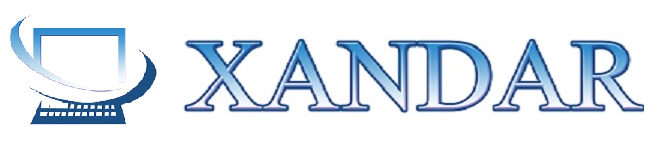
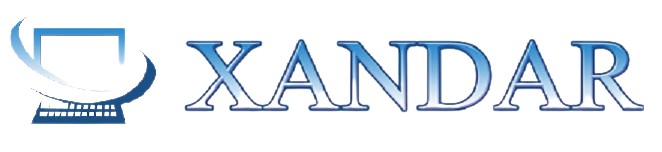
cambios

diff --git a/assets/side/css/style.css b/assets/side/css/style.css
@@ -654,7 +654,7 @@ a[href*='tel'], a[href*='mailto'] {
 .main-decorated-box:before {
 	content: '';
 	position: absolute;
-	background: url("../../img/xandar.jpeg") no-repeat center center;
+	background: url("../../img/xandar.png") no-repeat center center;
 	background-size: contain;
 	width: 100%;
 	height: 100%;

diff --git a/application/views/page.php b/application/views/page.php
@@ -68,20 +68,20 @@
                                 <li>
                                     <div class="unit unit-spacing-xs align-items-center">
                                         <div class="unit-left"><span class="icon text-middle fa-phone"></span></div>
-                                        <div class="unit-body"><a href="tel:#">+1 800 123 45 67</a></div>
+                                        <div class="unit-body"><a href="tel:#">+57 302 436 06 57</a></div>
                                     </div>
                                 </li>
                                 <li>
                                     <div class="unit unit-spacing-xs align-items-center">
                                         <div class="unit-left"><span class="icon text-middle fa-envelope"></span></div>
-                                        <div class="unit-body"><a href="mailto:#">info@demolink.org</a></div>
+                                        <div class="unit-body"><a href="mailto:#">soporte@xandar.com</a></div>
                                     </div>
                                 </li>
                                 <li>
                                     <div class="unit unit-spacing-xs align-items-center">
                                         <div class="unit-left"><span class="icon text-middle fa-map-marker"></span>
                                         </div>
-                                        <div class="unit-body"><a href="#">2164 Wall St. New York, NY 10122</a></div>
+                                        <div class="unit-body"><a href="#">Calle 27b #10- 30 S/larga - Atlantico</a></div>
                                     </div>
                                 </li>
                             </ul>
@@ -107,7 +107,7 @@
                                 <!--RD Navbar Brand-->
                                 <div class="rd-navbar-brand">
                                     <!--Brand--><a class="brand" href="index.html"><img class="brand-logo-dark"
-                                            src="<?php echo base_url('assets/side/'); ?>images/xandar-icon.png"
+                                            src="<?php echo base_url('assets/'); ?>img/xandar-icon.png"
                                             alt="" width="100" height="17" /><img class="brand-logo-light"
                                             src="<?php echo base_url('assets/side/'); ?>images/logo-inverse-200x34.png"
                                             alt="" width="100" height="17" /></a>
@@ -116,9 +116,9 @@
                             <div class="rd-navbar-main-element">
                                 <div class="rd-navbar-nav-wrap">
                                     <ul class="rd-navbar-nav">
-                                        <li class="rd-nav-item active"><a class="rd-nav-link" href="/">Xandar</a>
+                                        <li class="rd-nav-item active"><a class="rd-nav-link" href="/">Ingresar</a>
                                         </li>
-                                        <li class="rd-nav-item"><a class="rd-nav-link" href="#">Ingresa</a>
+                                        <li class="rd-nav-item"><a class="rd-nav-link" href="#">Crear Cuenta</a>
                                         </li>
                                         <li class="rd-nav-item"><a class="rd-nav-link" href="#">Contacto</a>
                                         </li>
